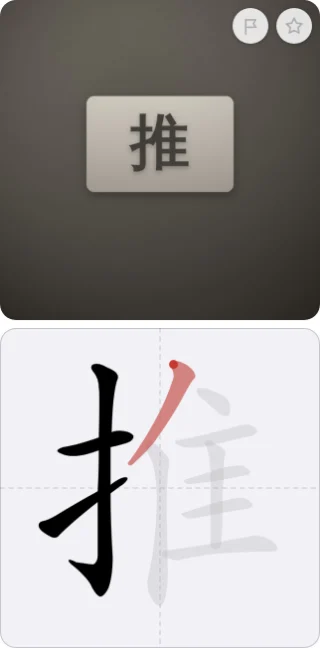
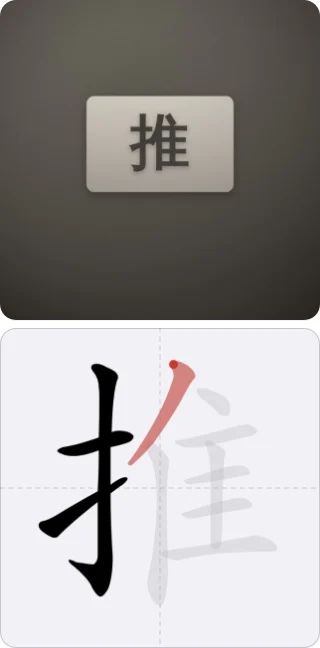
v667: Star and Flag leave the Learn photo for the toolbar; a small mark beside Whole card (#743)
H: the marks on the photo distract and cover part of it. Star · Flag · Edit
are the toolbar under Whole card again (v655's), and a starred or flagged
card shows a small star/flag beside the fold row's label.

Claude-Session: https://claude.ai/code/session_011ddJhScudZucfvFN8XF8dU

Changed region(s): [[0.7188, 0.0, 1.0, 0.0926]]

diff --git a/app.js b/app.js
@@ -8,7 +8,7 @@
 const NEW_PER_SESSION = 8;
 const CJK = /[\u4e00-\u9fff]/;
 const pySpaced=t=>{ const out=[]; for(const x of pinyinPro.pinyin(t,{type:"array",toneType:"symbol"})){ const prev=out[out.length-1]; if(prev!==undefined&&/^[\d.]+[a-zA-Z%]*$/.test(prev)&&/^[\da-zA-Z%.]$/.test(x)&&!(/[a-zA-Z%]$/.test(prev)&&/[\d.]/.test(x))) out[out.length-1]=prev+x; else out.push(x); } return out.join(" "); }; /* syllables with tone marks, space-separated; a number stays one token (30, not 3 0), with the unit letters the library hands out one by one (380ml, not 380 m l — v323) */
-const APP_V=666; /* must equal the PWA vN label in index.html — the boot check repairs a shell whose files are of different versions */
+const APP_V=667; /* must equal the PWA vN label in index.html — the boot check repairs a shell whose files are of different versions */
 let PICKING=0; const PICK_MAX=10*60000, picking=()=>PICKING>0&&Date.now()-PICKING<PICK_MAX; /* a photo is being taken or picked (v316): from the tap on Take photo or From album until the input's change or cancel, at most ten minutes — no update reload meanwhile, see reloadSoon */
 const glyphs = s => [...String(s)].filter(ch => CJK.test(ch)).length;
 const headFont = s => { const n = glyphs(s); return n<=1?150:n===2?104:n===3?74:n<=8?58:n<=12?44:34; };
@@ -674,6 +674,7 @@ async function sendFeedback(text,shot){
    as untested. THE RULE, the owner's twin of WHATS_NEW (v408): a PR that ships something only the phone can judge
    adds its line here, and the line goes when H says it works. Owner's, English, no key in any language. */
 const TO_TEST=[
+  ["learn","v667","star/flag by Whole card: ok?"],
   ["learn","v665","zoom goes in once, no correction?"],
   ["learn","v664","tilted text: no zoom off it?"],
   ["learn","v663","zoom on cards with no frame?"],
@@ -3382,8 +3383,9 @@ async function setStar(id,on){
 }
 const TB_ICON={ /* v655: the study card's toolbar, drawn rather than typed — ☆ ⚑ ✎ are font glyphs, and a phone's font decides their size, weight and whether one comes as an emoji */
   edit:`<svg viewBox="0 0 24 24" aria-hidden="true"><path d="M15.2 5.3l3.5 3.5M4.5 19.5l.9-4.3L16.6 4a1.6 1.6 0 0 1 2.3 0l1.1 1.1a1.6 1.6 0 0 1 0 2.3L8.8 18.6z"/></svg>`};
-const flagIcon=`<svg viewBox="0 0 24 24" aria-hidden="true"><path d="M6 21V4M6 4.5h11.5l-2.6 4.25 2.6 4.25H6"/></svg>`; /* v658: the Learn photo's flag, drawn like the star beside it */
+const flagIcon=`<svg viewBox="0 0 24 24" aria-hidden="true"><path d="M6 21V4M6 4.5h11.5l-2.6 4.25 2.6 4.25H6"/></svg>`; /* v658: the flag, drawn like the star; the study card's toolbar and fold row since v667 */
 const starIcon=`<svg viewBox="0 0 24 24" aria-hidden="true"><path d="M12 3.6l2.63 5.33 5.87.86-4.25 4.14 1 5.85L12 17.02l-5.25 2.76 1-5.85L3.5 9.79l5.87-.86z"/></svg>`;
+const foldMarks=d=>d.star&&!inPage(d)||d.flag?`<span class="fmarks" aria-hidden="true">${d.star&&!inPage(d)?starIcon:""}${d.flag?flagIcon:""}</span>`:""; /* v667: a starred or flagged card says so beside "Whole card", off the photo */
 const starHTML=d=>`<span class="star${d.star?" on":""}" data-star="${esc(d.id)}" role="button" tabindex="-1" aria-pressed="${d.star?"true":"false"}" aria-label="${t("Star")}">${starIcon}</span>`;
 /* the tap is the learner's, not the scroll's: a finger that arrests a flick still fires a click on Chrome/Android, and the page
    has moved between the press and that click — a deliberate tap on a list at rest has not. No timer, so a fast tap is never eaten. */
@@ -3823,7 +3825,7 @@ function renderStudy(main){
      above the pad is the word being written. Until v526 the block sat above the pad and the line under it, and the two
      said the same thing twice about different words ("doppelt gekoppelt und unlogisch"). */
   const back=`<div class="anshanzi hanzi">${(learnTrad(d)?learnTrad(d).split("\n"):frontLines(d)).map(esc).join("<br>")}</div>${backHTML(d,{noParts:true,explain:true})}${flagNoteHTML(d)}${aiBoxHTML(d)}
-      <div class="backacts"><button class="tbtn" id="edit-card">${TB_ICON.edit}<span>${t("Edit")}</span></button></div>`; /* v654 (H: "Please offer an edit button in the learn cards. But not too prominent"): Edit beside Star and Flag inside the fold, so the folded card shows nothing new; the Edit form's own "study" way back (v512) brings the card back with the block open. v655 (H: "Polish the layout/design, not sure if Edit should be grey?", then B of three mock-ups): the three are one toolbar — equal columns, a drawn icon over a small label, all grey, and a starred or flagged card's own button in the tint. v658 (H: "jetzt hab ich 2 mal Flag … Doppelt gemoppelt ist zu vermeiden", then "And star stays in toolbar? Unlogisch." and the rule he chose, "marks on the photo"): the marks — star and flag — sit on the photo as they do on a Cards tile, and the toolbar holds the one action, Edit */
+      <div class="backacts">${inPage(d)?"":`<button class="tbtn${d.star?" on":""}" id="star-card" aria-pressed="${d.star?"true":"false"}">${starIcon}<span>${d.star?t("Starred"):t("Star")}</span></button>`}<button class="tbtn${d.flag?" on":""}" id="flag" aria-pressed="${d.flag?"true":"false"}">${flagIcon}<span>${(d.flag?t("card:⚑ Flagged"):t("⚑ Flag")).replace(/^⚑\s*/,"")}</span></button><button class="tbtn" id="edit-card">${TB_ICON.edit}<span>${t("Edit")}</span></button></div>`; /* v654 (H: "Please offer an edit button in the learn cards. But not too prominent"): Edit beside Star and Flag inside the fold, so the folded card shows nothing new; the Edit form's own "study" way back (v512) brings the card back with the block open. v655 (H: "Polish the layout/design, not sure if Edit should be grey?", then B of three mock-ups): the three are one toolbar — equal columns, a drawn icon over a small label, all grey, and a starred or flagged card's own button in the tint. v658 (H: "jetzt hab ich 2 mal Flag … Doppelt gemoppelt ist zu vermeiden", then "And star stays in toolbar? Unlogisch." and the rule he chose, "marks on the photo"): the marks — star and flag — sit on the photo as they do on a Cards tile, and the toolbar holds the one action, Edit. v667 (H: "Ich bin mit Flag und Star oben rechts im Bild auf der Lernkarte überhaupt nicht happy. Das lenkt ab und überdeckt einen Teil des Bildes", then "toolbar plus small icon next to Whole card"): Star · Flag · Edit are the toolbar again, the photo carries nothing, and the fold row shows a starred or flagged card's mark beside "Whole card" (`foldMarks`) */
   const noTmpl=cur&&STROKES&&!STROKE_OF.has(cur.glyph);
   const freePad=noTmpl; /* a character the stroke set lacks: the pad draws freehand and needs Undo, Clear and the note. A character WITH a template never shows them — v570 gave them to it mid-write and v582 took them back, so the freehand judging leaves no mark on the screen. */
   /* v574 (H with a screenshot of a single-card test: "Warum ist oben so viel Platz??"): the ← Cards row is a SIBLING of the
@@ -3836,21 +3838,21 @@ function renderStudy(main){
      v584's DESC_ROW reserve go with it, and the pad has the 30 px back. */
   main.innerHTML=wxNoteHTML()+(S.single?`<div class="topline"><button class="del" id="back-cards">${t("← Cards")}</button><span class="badge">${t("Testing from the list")}</span></div>`:"")+`<div class="card study${rep?" rep":""}${cueBigCls()}">
     <div class="cue">
-    <div class="zone1 front${d.flag?" flagged":""}" id="reveal">${picHTML}${tradMark(d)}${inPage(d)?"":`<button class="picstar${d.star?" on":""}" id="picstar" aria-label="${esc(t("Star"))}" aria-pressed="${d.star?"true":"false"}">${starIcon}</button>`}${`<button class="picflag${d.flag?" on":d.unchecked?" new":""}" id="picflag" aria-label="${d.flag?t("⚑ Clear flag"):t("⚑ Flag for review")}" aria-pressed="${d.flag?"true":"false"}" title="${!d.flag&&d.unchecked?esc(t("Not yet checked")):""}">${flagIcon}</button>`}</div>
+    <div class="zone1 front${d.flag?" flagged":""}" id="reveal">${picHTML}${tradMark(d)}</div>
     <div class="txt" id="cuetxt">${tradMark(d)}${chrow}<div class="padline" id="padline"></div></div></div>
     <div class="padwrap"><canvas class="wpad" id="wpad" width="${DRAW_SIZE}" height="${DRAW_SIZE}"></canvas><div class="padacts" id="padacts"><button class="del" id="pad-undo" hidden>${t("pad:Undo")}</button><button class="del" id="pad-show" hidden>${t("Show me")}</button><button class="del" id="pad-skip" hidden>${t("Skip")}</button><button class="del" id="pad-done" hidden>${t("Done")}</button><button class="del" id="pad-clear" hidden>${t("Clear")}</button></div>${freePad?`<div class="hint" id="pad-note">${noTmpl?t("not in the stroke set — draw it and tap Done"):""}</div>`:""}</div>
-    <div class="fold${ansOpen?" open":""}"><button class="foldbtn" id="fold" aria-expanded="${ansOpen?"true":"false"}"><span>${t("Whole card")}</span>${rep?`<span class="pill again">${t("Again")}</span>`:""}<span class="tail">${!rep&&list.length>1&&!S.single?/* v522: the count in the fold row; on a repeat pass the Again pill takes the slot */`<span class="pos">${esc(t("{0} of {1}",li+1,list.length))}</span>`:""}<i aria-hidden="true">⌄</i></span></button><div class="ans" id="ans"${ansOpen?"":" hidden"}>${back}</div></div>
+    <div class="fold${ansOpen?" open":""}"><button class="foldbtn" id="fold" aria-expanded="${ansOpen?"true":"false"}"><span>${t("Whole card")}</span>${foldMarks(d)}${rep?`<span class="pill again">${t("Again")}</span>`:""}<span class="tail">${!rep&&list.length>1&&!S.single?/* v522: the count in the fold row; on a repeat pass the Again pill takes the slot */`<span class="pos">${esc(t("{0} of {1}",li+1,list.length))}</span>`:""}<i aria-hidden="true">⌄</i></span></button><div class="ans" id="ans"${ansOpen?"":" hidden"}>${back}</div></div>
     ${swipeHint(d)}</div>`; /* no linked-photos row on the study card (v518, H: "No 'also in other cards' in learn mode. Only on Cards mode.") — the detail keeps it */
   /* v536: no warmParts here. The block has carried backHTML(...{noParts:true}) since v512 ("backHTML without the parts
      row"), so opening it parsed cedict.tsv.gz - 2.5 MB - for a row this screen does not draw. The row lives on the camera's
      finished card, and renderShots warms it there. */
   const card=main.querySelector(".card.study");
   splitFit(card); /* v564/v580: the cue holds the picture or the whole text */
-  /* the photo: a tap swaps the crop for the whole photo and back (v55); the flag in its corner is the review flag (§ 3.3) */
-  const rv=$("#reveal"); if(rv) rv.onclick=e=>{ if(e.target.closest("#picflag,#picstar")) return; cueBig(card); }; /* v564: the tap swaps the two halves of the cue; the whole photo is the open card's (v55's swap is not on the study card any more). v580: the WHOLE upper zone takes it, not only a real picture — a card with no photo of its own draws its word there (v578) and must be able to swap back too */
-  { const pf=$("#picflag"); if(pf) pf.onclick=async e=>{ e.stopPropagation(); await setFlag(c,!d.flag); render(); }; } /* v515: hollow ⚐ = not yet checked, a tap flags it; tint ⚑ = flagged, a tap clears; v658 (H: "Flag disappears after unflagging."): a checked, clean card shows it too, in the star's quiet grey, so it can be flagged again — it had been drawn only while flagged or unchecked */
+  /* the photo: a tap swaps the crop for the whole photo and back (v55) */
+  const rv=$("#reveal"); if(rv) rv.onclick=()=>cueBig(card); /* v564: the tap swaps the two halves of the cue; the whole photo is the open card's (v55's swap is not on the study card any more). v580: the WHOLE upper zone takes it, not only a real picture — a card with no photo of its own draws its word there (v578) and must be able to swap back too */
   $("#fold").onclick=()=>{ S.ansOpen=!S.ansOpen; render(); if(S.ansOpen) revealBlock("#ans"); };
-  { const ps=$("#picstar"); if(ps) ps.onclick=async e=>{ e.stopPropagation(); await setStar(c,!d.star); render(); }; } /* v658: the star on the photo, as on a Cards tile */
+  const st2=$("#star-card"); if(st2) st2.onclick=async()=>{ await setStar(c,!d.star); render(); };
+  const fl=$("#flag"); if(fl) fl.onclick=async()=>{ await setFlag(c,!d.flag); render(); };
   const ed=$("#edit-card"); if(ed) ed.onclick=()=>{ S.editing=c; S.editFrom="study"; S.fullPic=false; render(); window.scrollTo({top:0}); }; /* v654: grades nothing; the pad keeps its strokes unless the text changes */
   const bk=$("#back-cards"); if(bk) bk.onclick=endSingle;
   const goTo=stepCard; /* the chevrons ‹ › beside the pad are gone (v520, H's "A" on the three ways offered: "that design won't win an award … better ideas?") — the swipe is the way from card to card since v518 starts anywhere, and the count in the helper row says where you are */
@@ -3872,7 +3874,7 @@ function renderStudy(main){
      there are no grades that own the screen any more. */
   wireSwipe(card, list.length<2||S.single?null:{
     n:list.length, idx:li, centred:false,
-    peer:i=>{ const nd=cardOf(list[i]); if(!nd) return null; const fp=S.fullPic; S.fullPic=false; try{ const np=frontPic(nd,{page:true,fixed:true}); return { cls:"study"+cueBigCls(), html:`<div class="cue"><div class="zone1 front">${np||cueGlyphHTML(nd)}${tradMark(nd)}</div><div class="txt">${peerRowHTML(nd)}<div class="padline"></div></div></div><div class="padwrap"><div class="wpad ghost"${ghostSize(card)}></div></div><div class="fold"><button class="foldbtn"><span>${t("Whole card")}</span><i aria-hidden="true">⌄</i></button></div>${swipeHint(nd)}` }; } finally{ S.fullPic=fp; } }, /* v530: the neighbour carries the study card's own class, so it takes its 16 px top padding and every other rule of the study layout — a plain `.card` neighbour stood 6 px taller (22 px of padding) and hopped by that much at the snap */ /* fixed: the neighbour's box at the study card's one shape (v518, H: "Swiping cards in learn mode somehow jumps the image") — without it the neighbour came in at its own v514 ratio and jumped to 2:1 at the snap */
+    peer:i=>{ const nd=cardOf(list[i]); if(!nd) return null; const fp=S.fullPic; S.fullPic=false; try{ const np=frontPic(nd,{page:true,fixed:true}); return { cls:"study"+cueBigCls(), html:`<div class="cue"><div class="zone1 front">${np||cueGlyphHTML(nd)}${tradMark(nd)}</div><div class="txt">${peerRowHTML(nd)}<div class="padline"></div></div></div><div class="padwrap"><div class="wpad ghost"${ghostSize(card)}></div></div><div class="fold"><button class="foldbtn"><span>${t("Whole card")}</span>${foldMarks(nd)}<i aria-hidden="true">⌄</i></button></div>${swipeHint(nd)}` }; } finally{ S.fullPic=fp; } }, /* v530: the neighbour carries the study card's own class, so it takes its 16 px top padding and every other rule of the study layout — a plain `.card` neighbour stood 6 px taller (22 px of padding) and hopped by that much at the snap */ /* fixed: the neighbour's box at the study card's one shape (v518, H: "Swiping cards in learn mode somehow jumps the image") — without it the neighbour came in at its own v514 ratio and jumped to 2:1 at the snap */
     go:goTo, ready:p=>{ p.style.setProperty("--cueh",(card._fit?card._fit.cueH+"px":card.style.getPropertyValue("--cueh"))); splitFit(p); fitPageCover(p); } });
     /* v596: fitPageCover on the neighbour too. renderStudy has cover-fitted the CARD's page front since v478 and nothing
        ever fitted the peer's, while v530 gives the peer the study card's own class — so .card.study .picbox.page .pagewrap

diff --git a/styles.css b/styles.css
@@ -733,11 +733,6 @@ body.noscroll{overflow:hidden}
 .card.study{padding-top:12px;padding-bottom:14px} /* v559: 16/18 until then — the two smallest of the six gaps the pad pays for on a wrapped card */
 .card.study .zone1{position:relative}
 .card.study .zone1 .picbox{margin-bottom:0}
-.picflag{position:absolute;right:8px;top:8px;width:36px;height:36px;border:none;border-radius:999px;background:rgba(255,255,255,.85);color:var(--label3);font-size:18px;line-height:36px;padding:0;cursor:pointer;box-shadow:0 1px 3px rgba(0,0,0,.25)} /* the review flag on the picture, as the star sits on a tile (v465) */
-.picflag{display:grid;place-items:center} .picflag svg{width:21px;height:21px;fill:none;stroke:currentColor;stroke-width:1.8;stroke-linejoin:round;stroke-linecap:round} .picflag.on svg{fill:currentColor} .picflag.on{color:var(--tint)}
-.picstar{position:absolute;right:8px;top:8px;z-index:3;width:36px;height:36px;border:none;border-radius:999px;background:rgba(255,255,255,.85);color:var(--label3);padding:0;display:grid;place-items:center;cursor:pointer;box-shadow:0 1px 3px rgba(0,0,0,.25)} .picstar::before{content:"";position:absolute;inset:-4px} .picstar svg{width:22px;height:22px;fill:none;stroke:currentColor;stroke-width:1.8;stroke-linejoin:round} .picstar.on{color:var(--tint)} .picstar.on svg{fill:currentColor} /* v658: the star on the Learn photo, the flag's twin — marks on the picture, as on a Cards tile */
-.zone1 .picstar~.picflag{right:52px} /* v658: the flag beside the star, not under it */
-.picflag.new{color:var(--label2)} /* v515: hollow — not yet checked, a shade darker; a tap flags it. v658: a checked, clean card shows the flag too, in --label3 like the star */
 /* THE CHARACTERS ARE ONE ROW (v517, H: "Die Felder für Bild und Zeichenfläche dürfen sich nicht in der Größe verändern.
    Das müssen Konstanten sein."). Until v516 there was one row per photo line, so a three-line sign gave three rows, 196 px
    against a one-line card's 60, and the pad paid the difference. The rows are laid side by side now with the photo's own
@@ -829,6 +824,7 @@ body.noscroll{overflow:hidden}
    since v522 (H: "So unwichtig und braucht so viel Platz"), where it costs no height; under the pad from v520 to v521 */
 .foldbtn>span{white-space:nowrap} /* the label and the Again pill never break inside; a row that has no room wraps its tail onto a second line as whole items (German at 360 px) */
 .foldbtn .tail{margin-left:auto;display:inline-flex;align-items:center;gap:8px} .foldbtn .tail i{margin-left:0}
+.foldbtn .fmarks{display:inline-flex;gap:4px;color:var(--tint)} .foldbtn .fmarks svg{width:15px;height:15px;fill:currentColor;stroke:currentColor;stroke-width:1.6;stroke-linejoin:round;stroke-linecap:round} /* v667: the star and flag of the card, off the photo */
 .foldbtn .pos{font-size:13px;font-weight:400;color:var(--label3);white-space:nowrap}
 /* the locked character lit on the photo (v520): v461's shadow around the character's own rectangle, faded in and out */
 /* the word being written, marked on the photo (v533, H: "Bitte ausgewählte Worte dezent im Bild highlighten"): a tint ring

diff --git a/sw.js b/sw.js
@@ -1,4 +1,4 @@
-const CACHE = "zt-v666";
+const CACHE = "zt-v667";
 /* OCR assets (./vendor/, ~23 MB: the reader's eleven files at ~15 MB plus the 7.3 MB stroke outlines of v517, which are fetched through the same path but deliberately kept out of OCR_FILES) live in their own cache that survives shell
    updates — otherwise every cache version bump would re-download all of
    Tesseract. Only bump this when vendor files change. */

diff --git a/index.html b/index.html
@@ -20,7 +20,7 @@
 <body>
 <div id="app">
   <header id="hdr">
-    <div class="brand"><span class="logo">识字</span><span class="ver">PWA v666</span></div>
+    <div class="brand"><span class="logo">识字</span><span class="ver">PWA v667</span></div>
     <div class="stats">
       <div id="stat-filter"></div>
       <span id="stat-deck" style="display:none"><b>Deck</b><span class="v">0</span></span>

diff --git a/CLAUDE.md b/CLAUDE.md
@@ -59,7 +59,7 @@ UI language: English (ten languages shipped). Learning content: Chinese + pinyin
   sends `max-age=600`). Files no phone fetches — `CLAUDE.md`, `docs/`, `supabase/`, `tools/` —
   need **no** bump; bumping costs every phone a shell re-download for nothing.
 
-## Current state (PWA v666, 2026-09-26)
+## Current state (PWA v667, 2026-09-26)
 **The app is called 识字 Shízì** (v608, H: "Return the name to shizi", then "识字 Shízì" over the full v600 name; v601–v607
 it was 街字 Jiēzì, and Zeichentrainer stays dropped). The title, manifest `name`/`short_name` (识字 Shízì / 识字), header
 logo, About, share text, `privacy.html`, the owner's dumps and every shared file (`shizi-YYYY-MM-DD.json.txt`,
@@ -72,6 +72,7 @@ the manifest, which can take a day.
 **Recent state worth carrying in the head** (each has its full entry in the archive):
 - **v620–v636** — a **multicard's regions snap onto their texts** at display (`snapRegion`, memory only), never on a frame over half the photo or shared with another text (v628). Texts fall back to the whole picture because the model's label boxes are a drawing and the reader names only some labels; a measuring grid (v629–v630) and faster Qwen models (v631–v633, not on H's Token Plan) were tried and removed — see the archive. **Owner tools → Zoom check** (Run, Share, Data, Paddle) shares the newest 24 cards and 8 multicards as one PDF with the full photos, reading records and AI replies (v627). Multicards zoom like cards (v634) and take **Add a text** (v635).
 - **v637–v638** — **PaddleOCR on the phone** (`pdRead`, `vendor/paddle/`, ~30 MB loaded once on first use; since v642 in a worker of its own, `pdWorkerMain` — on the page it froze the first multicard swipe of a session for 633 ms): on H's phone 93 of 103 multicard texts named at 1.8 s a photo. Since v638 it **places a multicard's labels**: at the split (`pdMatch`, one to one, before the old label search, which only adds places; since v643/v644 a text left over may take two lines stacked or side by side, and one the reader cannot find takes the AI's box once `aiBoxCal` has checked the AI's boxes against the reader's on that photo — 227 of 227 texts on H's 24 multicard photos) and when an older multicard is shown (`refineShot`: a text with the whole picture or a shared frame takes its line). Owner tools → Zoom check → **Paddle** measures it. **Owner tools → Re-read all** (v645) runs every photo of the deck through today's real pipeline into a report (`shizi-reread.txt`) and changes no card (`RRPH` placeholders in memory; `finishPending`/`failPending` hand off to `rrFinish`). **Owner tools → Check texts** (v650) asks the picture model, one call per photo, which characters of each card's text are not on its photo and flags those cards "Not on the photo: …" (H's rule: no text that is not visible; pre-v611 cards invented 早 of 早日退休 and 盒马鲜生). **Owner tools → Rebuild all** (v651) replaces every photo's cards with what today's reading makes, through the camera's own save (`rbOne`); history, star and tags follow by text or one-to-one; the old cards sit in `rb:<shot>` settings rows for **Undo** and for `rbRecover` after a kill — the boot's orphan-progress sweep spares them. On a multicard photo only the multicard and its texts are replaced (v652; v651 dropped the photo's own flashcards, and `rbRepair` put them back once). Since **v639** it is also **one more pass of every reading** (whole straightened frame, started beside the quick look, exempt from `lineFit`/`sizeFitOf`): on H's 17 card pictures, AI off, characters found 17 → 44 %. Since **v641** a **sure** Paddle reading (≤ 2 lines, ≥ 2 characters, every one ≥ `PD_SURE` 95 %, and Paddle's own raw detection sees ≤ 2 Chinese lines) is the reading: no close look, the card in seconds — and since **v646** the picture goes to the AI beside it (`SURECHK`/`sureCheck`): a different answer flags the card (H chose this over accepting the ~3 % wrong characters his Re-read of 521 photos found), and since **v652** the card **takes the AI's reading**, the reader's kept in the note and first among `alts` (the sure path is not worse than the others — 6 % flagged against 7–8 % — so the shortcut stays; the default changed). Since **v648** a sure reading whose picture already went out at the quick look (`picEarly`) is checked with that answer — before, it was checked by nothing (良品 read 一品). `pdAsPass` keeps a Latin stretch of up to five letters inside a Chinese line (D座, AI, 24H, SOHO B — v647), cuts fine print at the AI's third, drops strays and repeated lines (v646); the check compares characters and digits (`sureKey`, v647). Turning right-to-left signs round by the dictionary was measured and dropped (v647: 蜜雪冰城 scores higher backwards).
+- **v667** — **Star · Flag · Edit** are the Learn toolbar again (inside Whole card) and the **photo carries no marks**; a starred or flagged card shows a small star/flag beside "Whole card" (`foldMarks`). H: the marks on the photo distract and cover it.
 - **v666** — each **learn zoom** line in Diagnostics carries `at x,y %`, `edge dx,dy px` (the picture's edge held the pan) and `the reader read: …` (内 of 京城内外首善全图 off-centre: clamp or a second 内?).
 - **v665** — the overview **waits for the phone's reader** up to `AZ_READER` 2.5 s, so the zoom goes in once to its final place (was: ink's guess, then a correction).
 - **v664** — an **unsure zoom place off the reader's lines** (`pdCharBoxes` `area`) is dropped for the reader's text whole (贵州茅台酒 at 20° zoomed x3.5 onto empty card).
@@ -80,7 +81,7 @@ the manifest, which can take a day.
 - **v661** — the Learn zoom's reader match takes a character read **out of order** (a sign in columns read as rows: 幸北 | 福京) when the reader has it exactly as often as the card; before, 福 was interpolated onto the wrong row, unsure, and not zoomed.
 - **v660** — the Learn photo **zooms onto known (level 3) characters too** (H's choice over v617's recall rule).
 - **v656–v657** — **Crop again saved early keeps its reading**: `finishPending` puts its card back after a concurrent `putCard` copy (v656, the Learn description race); a sure reading's picture check now reaches the form or, after Save, the card via `sureCheck` (`formCheck`); and an AI answer counts only for the text it was asked about — the form's check (`run.zh`) and its hand-over (`aiLate`) never write an older text over a newer one (v657).
-- **v654–v655** — **Edit on the Learn card** inside Whole card (H: "not too prominent"); back to the same card, the pad kept unless the characters changed. Since v655 a grey toolbar of drawn icons over labels (H chose B of three mock-ups), since v658 only **Edit** — the marks sit on the photo like a Cards tile's: the star in the top-right corner, the flag beside it, both always drawn (H: "Doppelt gemoppelt ist zu vermeiden", "Unlogisch", then chose "marks on the photo"; v659: the flag had vanished after unflagging).
+- **v654–v655** — **Edit on the Learn card** inside Whole card (H: "not too prominent"); back to the same card, the pad kept unless the characters changed. Since v655 a grey toolbar of drawn icons over labels (H chose B of three mock-ups). v658–v666 the star and flag sat on the photo's corner; H rejected that at v667 (distracting, covers the photo) — **do not put marks back on the Learn photo**.
 - **v653** — the Learn zoom's place comes from **the phone's reader** (`pdCharBoxes`: the card's characters matched to its lines, each placed at its CTC position `at`; 222 of 301 characters sure on H's 35 Zoom-data cards against 48 for the ink search); the first touch never waits for it, and what it cannot place keeps the ink search below.
 - **v617–v619** — the Learn photo **zooms onto the character being written** (`autoZoom`); `charBoxes` searches the layout (v619: which ink lines carry the card's characters, horizontal or vertical, by pitch fit, a size prior and the card's own breaks) and cuts each line into exactly its characters (DP on least-ink cuts); judged on H's own photos: **v626**, on his full-size Zoom data, makes a line sure only when every character's ink is character-shaped (aspect 0.62–1.7, not solid) and their widths agree within 1.5×, and drops solid bands — 43 of 124 sure, all right by eye (was 58 with ~12 wrong: a tight zoom on the wrong spot is the worse failure); on every character since v660; Diagnostics logs every decision and **Owner tools → Zoom check** shares the boxes drawn on H's newest 24 photo cards.
 
@@ -184,8 +185,9 @@ after the layout settles (v521/v532).
   its word (v518/v527/v540), and **wraps onto as many lines as it needs** (v600) — a parenthetical is
   stripped from that line only (`shortSense`); the card keeps the whole sentence.
 - **"Whole card"** folds open at the card's foot — the characters, pinyin, meaning **and the
-  description** (v585), fetched by itself 1.2 s after the card appears (v586, `explainSoon`); then a grey toolbar with
-  **Edit** (v654/v655; since v658 the star and the flag sit on the photo's top-right corner instead) — Edit opens the Edit form and comes back to the same card.
+  description** (v585), fetched by itself 1.2 s after the card appears (v586, `explainSoon`); then a grey toolbar
+  **Star · Flag · Edit** (v654/v655, again since v667) — Edit opens the Edit form and comes back to the same card. The fold row
+  shows a small star/flag beside "Whole card" when the card has them; **nothing sits on the photo** (v667).
 - **The word being written is marked on the photo** (v533; **switched off by `SPOT_ON` since v602**, code intact), derived from the frame rather than
   stored, travelling with a pinch and with the fold (v541/v575).
 - **The photo zooms onto the character being written** (v617, `ZOOM_AUTO`): whole at the card's start, in after `AZ_OVERVIEW` 1.5 s (waiting for the reader up to `AZ_READER` 2.5 s, v665) or on the pad's first
@@ -506,7 +508,7 @@ own licences even after the app is sold** (Arphic §2b and CC BY-SA ShareAlike).
 fine; taking those two files private is not.
 
 ## Open / not yet field-checked
-v666's zoom record (H's next Diagnostics on 京城内外首善全图 decides clamp vs a wrong 内); v665's single zoom (how often does the overview run to 2.5 s?); v664's zoom on tilted or misread text; v663's zoom on frameless cards; v662's 1.5 s overview before the zoom; v661's zoom on a sign set in columns; v657's picture check on a Crop again saved early; v653's reader-placed Learn zoom (does it land on the character now?); v652's AI reading on a disputed sure card and the repaired Deck count; v651's Rebuild all (better cards and zoom? does Undo bring everything back?); v650's Check texts (does it flag the right cards, how many false flags?); v649's no card for a long reading when the AI is down; v646/v648's check beside a sure card (does it flag the right ones?); v645's Re-read all on the phone (516 cards: how long, and does it leave the deck as it was?); v641's sure-reading skip (are those cards fast and right on the phone?); v640's split picture call (is a photo's card really faster, and are brand meanings as good without the picture?); v642's worker for the phone's reader (is swiping multicards smooth now?); v617–v620/v626's auto zoom and multicard snap (the multicards that do not snap mostly have no frame of their own — v626/v628's records; H's next Owner tools → Zoom check → Share and Data is the test; is 3.5× sharp enough?); v616's recap after a Crop again; v615's steady Cards swipe; v613's tab out of Test this card; v612's Show me inside the pad; v611's anti-invention flags (do they land on the wrong cards and not the right ones?); v609/v610's bulleted update notes (grey dots); v608's name and icon on the home screen; v607's square photo in Learn and Test this card; v606/v614's pull-past-the-edge swipe on a zoomed photo; v605's whole dictionary meanings on the phone (the file re-fetches once); v603/v604's Traditional chip and its switch (does the blue read as the script, is the corner tap found, does a tap meant for the photo hit it); v602: does Learn read better without the marks on the photo (H's trial — his word decides whether `SPOT_ON` goes back to true); v600 and the versions around it, are not field-checked — H's next long-word card is the check for the
+v667's toolbar and fold-row marks; v666's zoom record (H's next Diagnostics on 京城内外首善全图 decides clamp vs a wrong 内); v665's single zoom (how often does the overview run to 2.5 s?); v664's zoom on tilted or misread text; v663's zoom on frameless cards; v662's 1.5 s overview before the zoom; v661's zoom on a sign set in columns; v657's picture check on a Crop again saved early; v653's reader-placed Learn zoom (does it land on the character now?); v652's AI reading on a disputed sure card and the repaired Deck count; v651's Rebuild all (better cards and zoom? does Undo bring everything back?); v650's Check texts (does it flag the right cards, how many false flags?); v649's no card for a long reading when the AI is down; v646/v648's check beside a sure card (does it flag the right ones?); v645's Re-read all on the phone (516 cards: how long, and does it leave the deck as it was?); v641's sure-reading skip (are those cards fast and right on the phone?); v640's split picture call (is a photo's card really faster, and are brand meanings as good without the picture?); v642's worker for the phone's reader (is swiping multicards smooth now?); v617–v620/v626's auto zoom and multicard snap (the multicards that do not snap mostly have no frame of their own — v626/v628's records; H's next Owner tools → Zoom check → Share and Data is the test; is 3.5× sharp enough?); v616's recap after a Crop again; v615's steady Cards swipe; v613's tab out of Test this card; v612's Show me inside the pad; v611's anti-invention flags (do they land on the wrong cards and not the right ones?); v609/v610's bulleted update notes (grey dots); v608's name and icon on the home screen; v607's square photo in Learn and Test this card; v606/v614's pull-past-the-edge swipe on a zoomed photo; v605's whole dictionary meanings on the phone (the file re-fetches once); v603/v604's Traditional chip and its switch (does the blue read as the script, is the corner tap found, does a tap meant for the photo hit it); v602: does Learn read better without the marks on the photo (H's trial — his word decides whether `SPOT_ON` goes back to true); v600 and the versions around it, are not field-checked — H's next long-word card is the check for the
 wrapped word line and for the bigger reading on the finished card (is 27 px enough, and does the reading
 still read as one thing when a seven-syllable word breaks across two lines?); an **empty Learn screen** for
 v599's real example card, and **More → How to use the app** for the figures (does it read as the app? is the

diff --git a/docs/HISTORY.md b/docs/HISTORY.md
@@ -1,4 +1,4 @@
-# HISTORY.md — the full record of 识字 Shízì (识字 Zeichentrainer until v601, 街字 Jiēzì v601–v607), v1–v666
+# HISTORY.md — the full record of 识字 Shízì (识字 Zeichentrainer until v601, 街字 Jiēzì v601–v607), v1–v667
 
 This is **CLAUDE.md as it stood at v596**, archived verbatim on 2026-09-21 because it had
 grown to 1.55 MB (~400k tokens) and was loaded into every single turn — which is what made
@@ -38,6 +38,21 @@ UI language: English. Learning content: Chinese + pinyin + English meaning.
 - URL: `https://henglicam.github.io/zeichentrainer/`
 - Push to `main` → Pages rebuilds automatically (~1–2 min). `index.html` must stay in the repo root.
 - The site is **public** (free plan). User data lives exclusively on the device (IndexedDB), never in the repo; what the app sends on its own is **the text of every new card** (the AI review is on by default and works through the owner's relay without a key, v191/v193 — and when the reading is hard, a picture of the text, sometimes the whole photo, v173/v348/v393) and the daily anonymous usage row (v170); each can be switched off under More, and `privacy.html` is the authoritative list (corrected at v403 and v534 — this line said "the only thing the app sends on its own is the usage row" until v539, which was false for 348 versions).
+
+## Current state (PWA v667, 2026-09-26)
+- **Star and Flag leave the Learn photo; the toolbar is Star · Flag · Edit again, and the fold row shows the marks (v667, H: "Ich
+  bin mit Flag und Star oben rechts im Bild auf der Lernkarte überhaupt nicht happy. Das lenkt ab und überdeckt einen Teil des
+  Bildes", then, of toolbar only or toolbar plus a small icon next to Whole card, "toolbar plus small icon next to Whole card").**
+  Reverses v658's placement (marks on the photo, H's choice then, after v655's toolbar had shown the flag twice — the corner flag
+  of v515 and the toolbar's). One flag still: the photo carries nothing now, not even v515's corner flag, so the toolbar's Flag is
+  the only one. The toolbar is v655's (`#star-card`, `#flag`, `#edit-card`, tint and filled icon when on), drawn with `starIcon`
+  and `flagIcon`; `.picstar`/`.picflag` left with their last users. `foldMarks` puts a 15 px tint star and/or flag beside the
+  label "Whole card" when the card is starred or flagged (a multicard text shows no star), on the study card and on its swipe
+  neighbour, so the row does not change at the snap. **Named cost:** "not yet checked" (v515's hollow corner flag) is no longer
+  seen in Learn; a clean card is flagged from the toolbar. Checked: 360 px in all ten languages, on and off — every label on one
+  line, 54 px buttons, no overflow; 390 light/dark and 360 German — no button on the photo, both marks beside Whole card, fold row
+  36 px; the toolbar's Star and Flag toggle the card and the marks, the fold stays open; a tap on the photo still swaps the cue.
+  `guide/front-{light,dark}` regenerated (no star on the photo; ratio 0.494 unchanged), the rest restored. No key, no note.
 
 ## Current state (PWA v666, 2026-09-26)
 - **The zoom's record says where it went and what held it (v666, H: "Hier hat er ja gar nicht mittig reingezoomt", on 内 of
